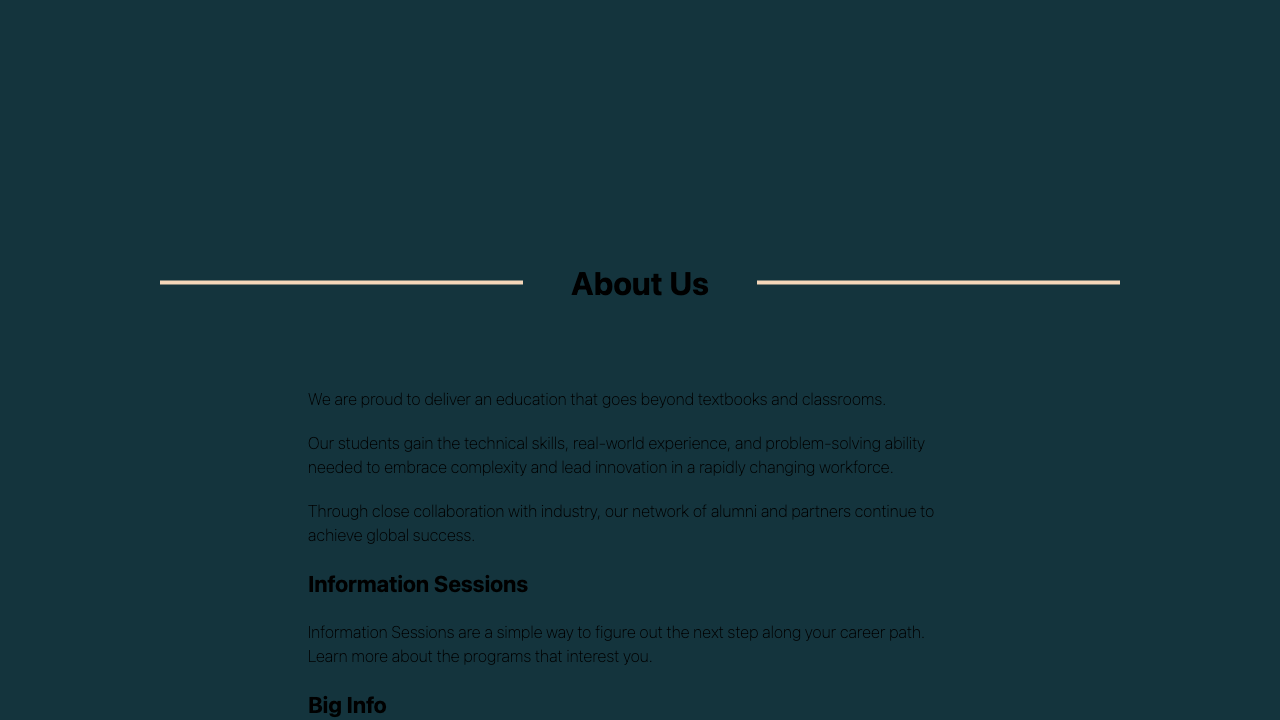
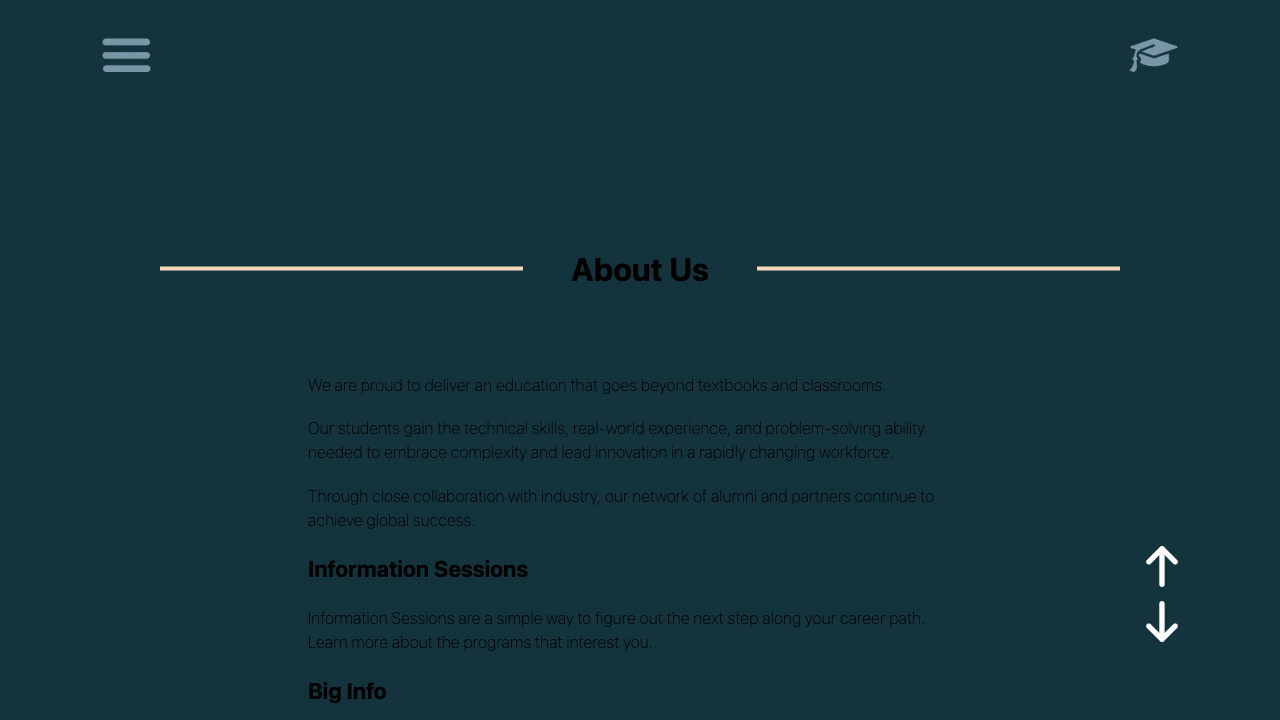
fixed arrow error

diff --git a/styles/Home.module.css b/styles/Home.module.css
@@ -3,7 +3,7 @@
   flex-direction: column;
   justify-content: space-between;
   align-items: center;
-  padding: 6rem;
+  padding: 3rem;
   min-height: 100vh;
 }
 
@@ -445,23 +445,23 @@
 @media (min-width: 1001px) {
   .text_heading1 {
     width: 75vw;
-    padding-bottom: 5rem;
+    padding-bottom: 3rem;
   }
 }
 /* Tablet (ipad Air) between 600px and 1000px */
 @media (max-width: 1000px) {
   .text_heading1 {
     width: 85vw;
-    padding-bottom: 10%;
+    padding-bottom: 5%;
   }
   .body_about .cont_section1 .text_heading1 {
-    padding-bottom: 20%;
+    padding-bottom: 15%;
   }
 }
 /* Mobile (iphone XR) under 600px */
 @media (max-width: 600px) {
   .body_about .cont_section1 .text_heading1 {
-    padding: 10% 0 30%;
+    padding: 10% 0 20%;
   }
 }
 

diff --git a/components/ContactForm.js b/components/ContactForm.js
@@ -115,14 +115,16 @@ export default function ContactForm() {
             <thead>
               <tr>
                 <th
-                  colspan="2"
+                  // colspan="2"
                   className={`${styles.th} ${styles.th_email}`}
                   for="email">Email</th>
               </tr>
             </thead>
             <tbody>
               <tr>
-                <td colspan="2">
+                <td
+                  // colspan="2"
+                  >
                   <input
                     className={styles.input}
                     type="email"

diff --git a/pages/_app.js b/pages/_app.js
@@ -38,7 +38,7 @@ export default function App({ Component, pageProps }) {
         <meta name="author" content="MDIA 2109" />
         <meta property="og:title" content={`Assignment #1 - ${title} Page`}/>
         <meta property="og:description" content="BCIT Digital Design and Development Diploma"/>
-        <link rel="icon" type="image/png" href="/favicon.png"/>
+        <link rel="icon" type="image/png" href="/favicon.ico"/>
       </Head>
 
       <Component {...pageProps} />

diff --git a/e2e/contact.spec.ts b/e2e/contact.spec.ts
@@ -1,8 +1,8 @@
 import { test, expect } from '@playwright/test';
 
-let urlHome = "http://localhost:3000";
-let urlAbout = "http://localhost:3000/about";
-let urlContact = "http://localhost:3000/contact";
+let urlHome = "https://playwright-bcit.vercel.app";
+let urlAbout = "https://playwright-bcit.vercel.app/about";
+let urlContact = "https://playwright-bcit.vercel.app/contact";
 
 test.beforeAll(async () => {
     console.log('Before tests');

diff --git a/e2e/about.spec.ts b/e2e/about.spec.ts
@@ -1,8 +1,8 @@
 import { test, expect } from '@playwright/test'
 
-let urlHome = "http://localhost:3000";
-let urlAbout = "http://localhost:3000/about";
-let urlContact = "http://localhost:3000/contact";
+let urlHome = "https://playwright-bcit.vercel.app";
+let urlAbout = "https://playwright-bcit.vercel.app/about";
+let urlContact = "https://playwright-bcit.vercel.app/contact";
 
 test.beforeAll(async () => {
     console.log('Before tests');

diff --git a/e2e/home.spec.ts b/e2e/home.spec.ts
@@ -1,8 +1,8 @@
 import { test, expect } from '@playwright/test'
 
-let urlHome = "http://localhost:3000";
-let urlAbout = "http://localhost:3000/about";
-let urlContact = "http://localhost:3000/contact";
+let urlHome = "https://playwright-bcit.vercel.app";
+let urlAbout = "https://playwright-bcit.vercel.app/about";
+let urlContact = "https://playwright-bcit.vercel.app/contact";
 
 test.beforeAll(async () => {
     console.log('Before tests');

diff --git a/pages/contact.js b/pages/contact.js
@@ -1,11 +1,8 @@
 import styles from "@/styles/Home.module.css";
-import { Inter } from "@next/font/google";
 import Arrow from "@/components/Arrow";
 import Navbar from "@/components/Navbar";
 import HeadingLine from "@/components/HeadingLine";
 import ContactForm from "@/components/ContactForm";
-
-const inter = Inter({ subsets: ["latin"] });
 
 export default function Contact() {
   return (

diff --git a/pages/about.js b/pages/about.js
@@ -1,11 +1,8 @@
 import styles from "@/styles/Home.module.css";
-import { Inter } from "@next/font/google";
 import Arrow from "@/components/Arrow";
 import Navbar from "@/components/Navbar";
 import HeadingLine from "@/components/HeadingLine";
 import Carousel from "@/components/Carousel";
-
-const inter = Inter({ subsets: ["latin"] });
 
 export default function About() {
   return (

diff --git a/pages/index.js b/pages/index.js
@@ -1,10 +1,7 @@
 import styles from '@/styles/Home.module.css';
-import { Inter } from '@next/font/google';
 import Arrow from '@/components/Arrow';
 import Navbar from '@/components/Navbar';
 import MyButton from '@/components/MyButton';
-
-const inter = Inter({ subsets: ['latin'] })
 
 export default function Home() {
   return (
